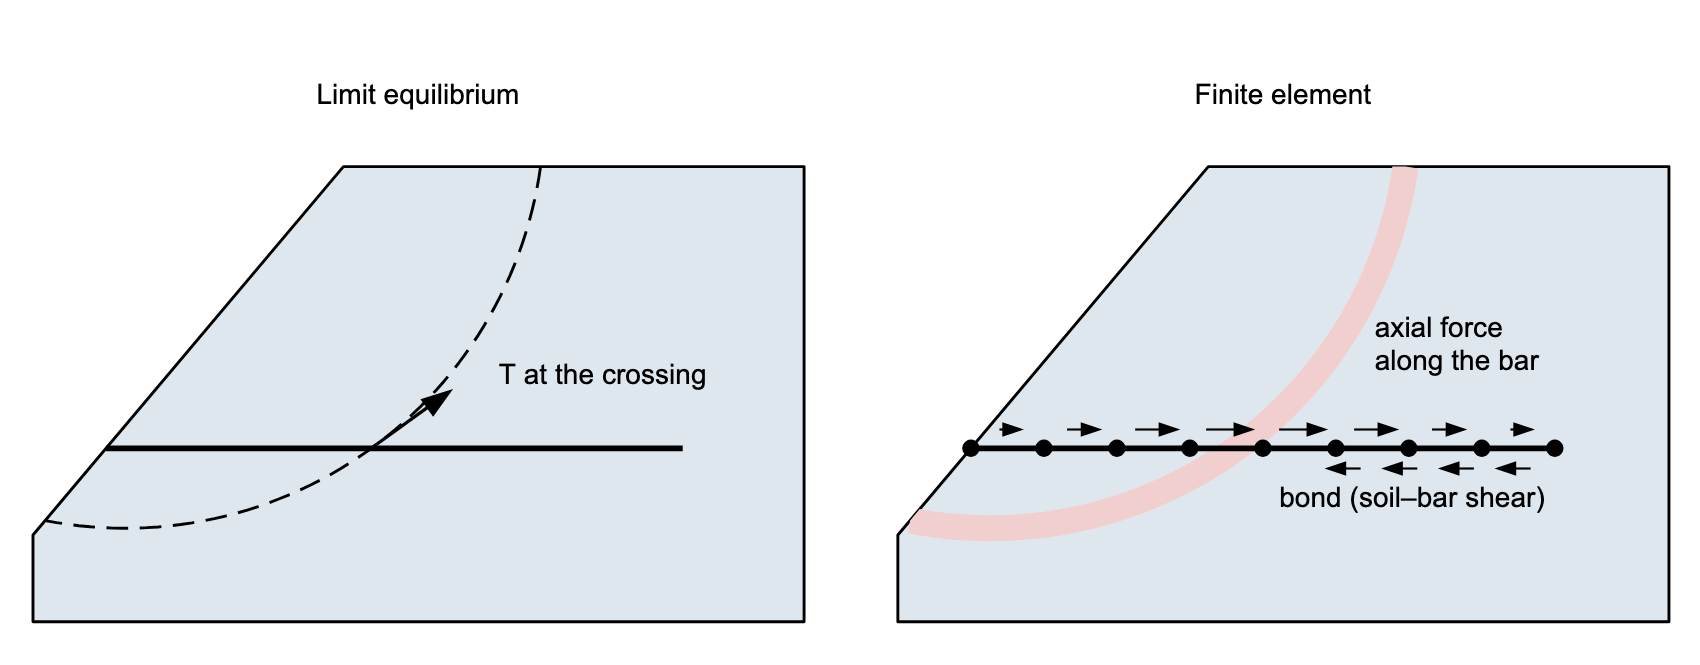
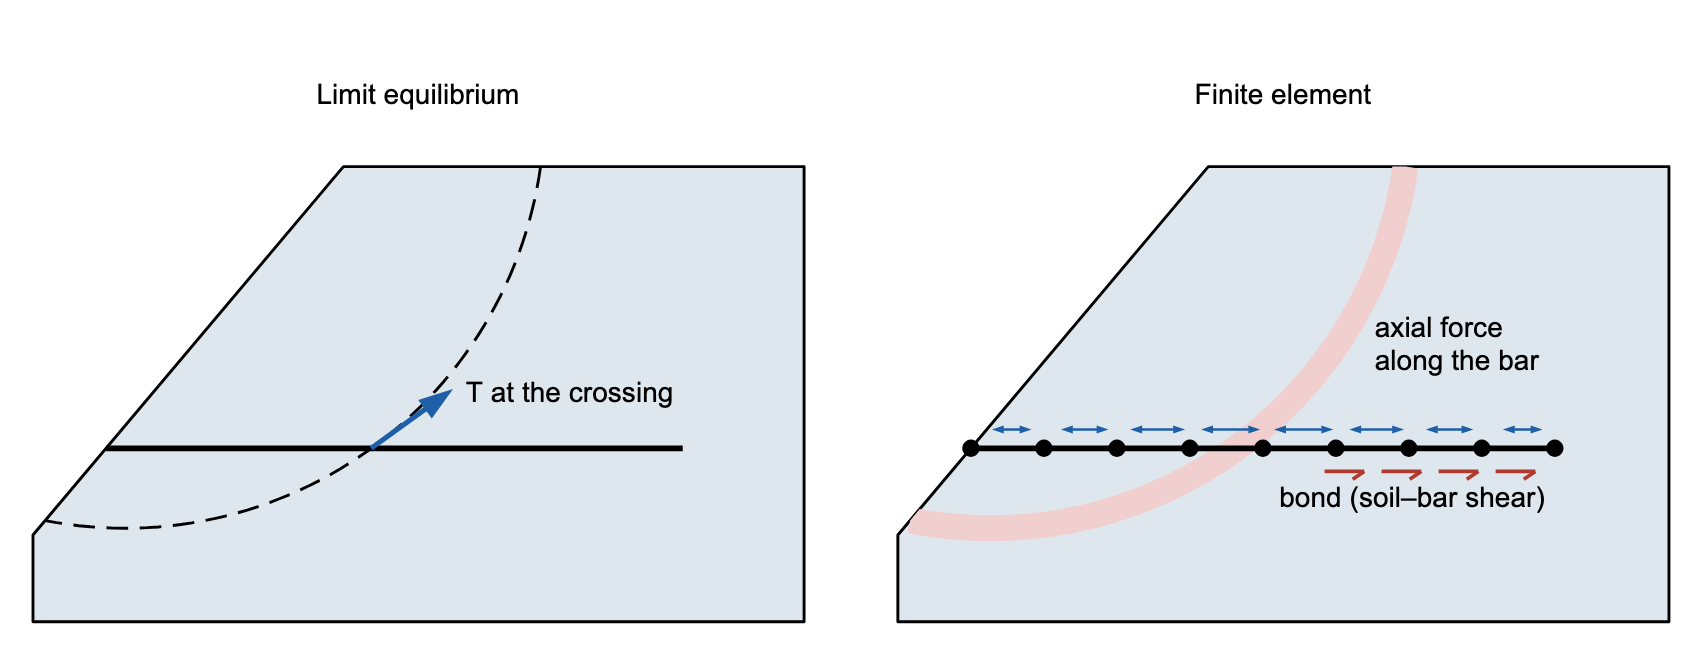
docs(tutorials): FEM-2 concept sketch — blue double-headed axial arrows, red shear barbs pointing into the embedment, heavier T arrow; Dir sentence completed
Claude-Session: https://claude.ai/code/session_01XjjT2aBxw8gY7EFdpoUcpj

Changed region(s): [[0.2182, 0.5414, 0.4053, 0.6617], [0.5612, 0.6316, 0.9041, 0.6617], [0.7794, 0.6917, 0.9041, 0.7218]]

diff --git a/docs/tutorials/fem02_reinforcement.md b/docs/tutorials/fem02_reinforcement.md
@@ -146,22 +146,23 @@ way. XSLOPE handles rupture the same way: `Tmax` is the rupture limit. With
 `Tres` left blank, a bar that reaches it holds there — the elastic-perfectly-
 plastic geogrid those codes use by default. With a `Tres` entered, a bar that
 reaches `Tmax` drops to that residual and carries no more than it from then on.
-The bond limit is where XSLOPE's default differs from those codes. They compute
-bond from the stress on the bar-soil interface, so the length a bar needs to
-develop its full capacity depends on how deep it is buried; XSLOPE's default
-reads that length directly from the input — the pullout lengths `Lp1` and
-`Lp2` — and its optional
-[bond-slip model](../fem/reinforcement.md#bond-slip-load-transfer-optional)
-is the stress-dependent form. Keeping the two limits apart is what makes the
-finite element results below readable.
+The bond limit can be stated either way. Those codes compute bond from the
+stress on the bar-soil interface, so the length a bar needs to develop its full
+capacity depends on how deep it is buried; XSLOPE offers that form through the
+`Adhesion` and `Delta` columns, and reads the length directly from the input —
+the pullout lengths `Lp1` and `Lp2` — when they are left blank, which is what
+this page does. Keeping the two limits apart is what makes the finite element
+results below readable.
 
 **Bond** is the first limit. A geogrid is held by friction against the soil it
 is buried in, and near a free end there is not much soil to be held by, so the
 force the line can carry there is limited by its embedment rather than by its
 own strength. That is what the pullout length `Lp` describes: over the first
 4 ft from each end the available force ramps from zero up to the full 800 lb/ft,
-and past 4 ft the embedment can develop the whole capacity. The ramp and the
-plateau together are the **capacity envelope**. Bond is **perfectly plastic**:
+and past 4 ft the embedment can develop the whole capacity. (Stating `Adhesion`
+and `Delta` instead makes that ramp follow the effective overburden along the
+line rather than rise at a fixed rate; this model uses the lengths.) The ramp
+and the plateau together are the **capacity envelope**. Bond is **perfectly plastic**:
 when the force reaches what the embedment can develop, the line slips there and
 goes on carrying that force. Interface friction does not disappear once it has
 been overcome, so nothing drops to zero.
@@ -184,8 +185,9 @@ Both engines apply the same envelope. What differs is where they apply it.
 
 The limit equilibrium engine evaluates the envelope at **one point** — where the
 trial surface crosses the line — and applies that force to the sliding mass,
-tangent to the surface for a flexible support like a geogrid. The force is
-prescribed, not computed: nothing about the soil's stiffness, the bar's
+tangent to the surface for a flexible support like a geogrid, or along the
+line's own axis for a rigid member like a soil nail (the **Dir** column). The
+force is prescribed, not computed: nothing about the soil's stiffness, the bar's
 stiffness or how far anything moved enters it. That is also why `Tres` has no
 meaning in a limit equilibrium run: a post-peak drop depends on how far the
 reinforcement has strained, and the method never computes a strain.
@@ -710,8 +712,7 @@ This tutorial covered:
   residual capacity that lands on three values rather than a curve.
 
 **Where to go next:** [Soil reinforcement in FEM](../fem/reinforcement.md) and
-[soil reinforcement in LEM](../lem/reinforcement.md) carry both formulations,
-including bond-slip load transfer and staged construction;
+[soil reinforcement in LEM](../lem/reinforcement.md) carry both formulations;
 [LEM-8](lem08_reinforced_slope.md) builds this model from nothing and measures
 what the geogrid is worth against the bare section;
 [FEM-1](fem01_strength_reduction.md) is strength reduction on an unreinforced
